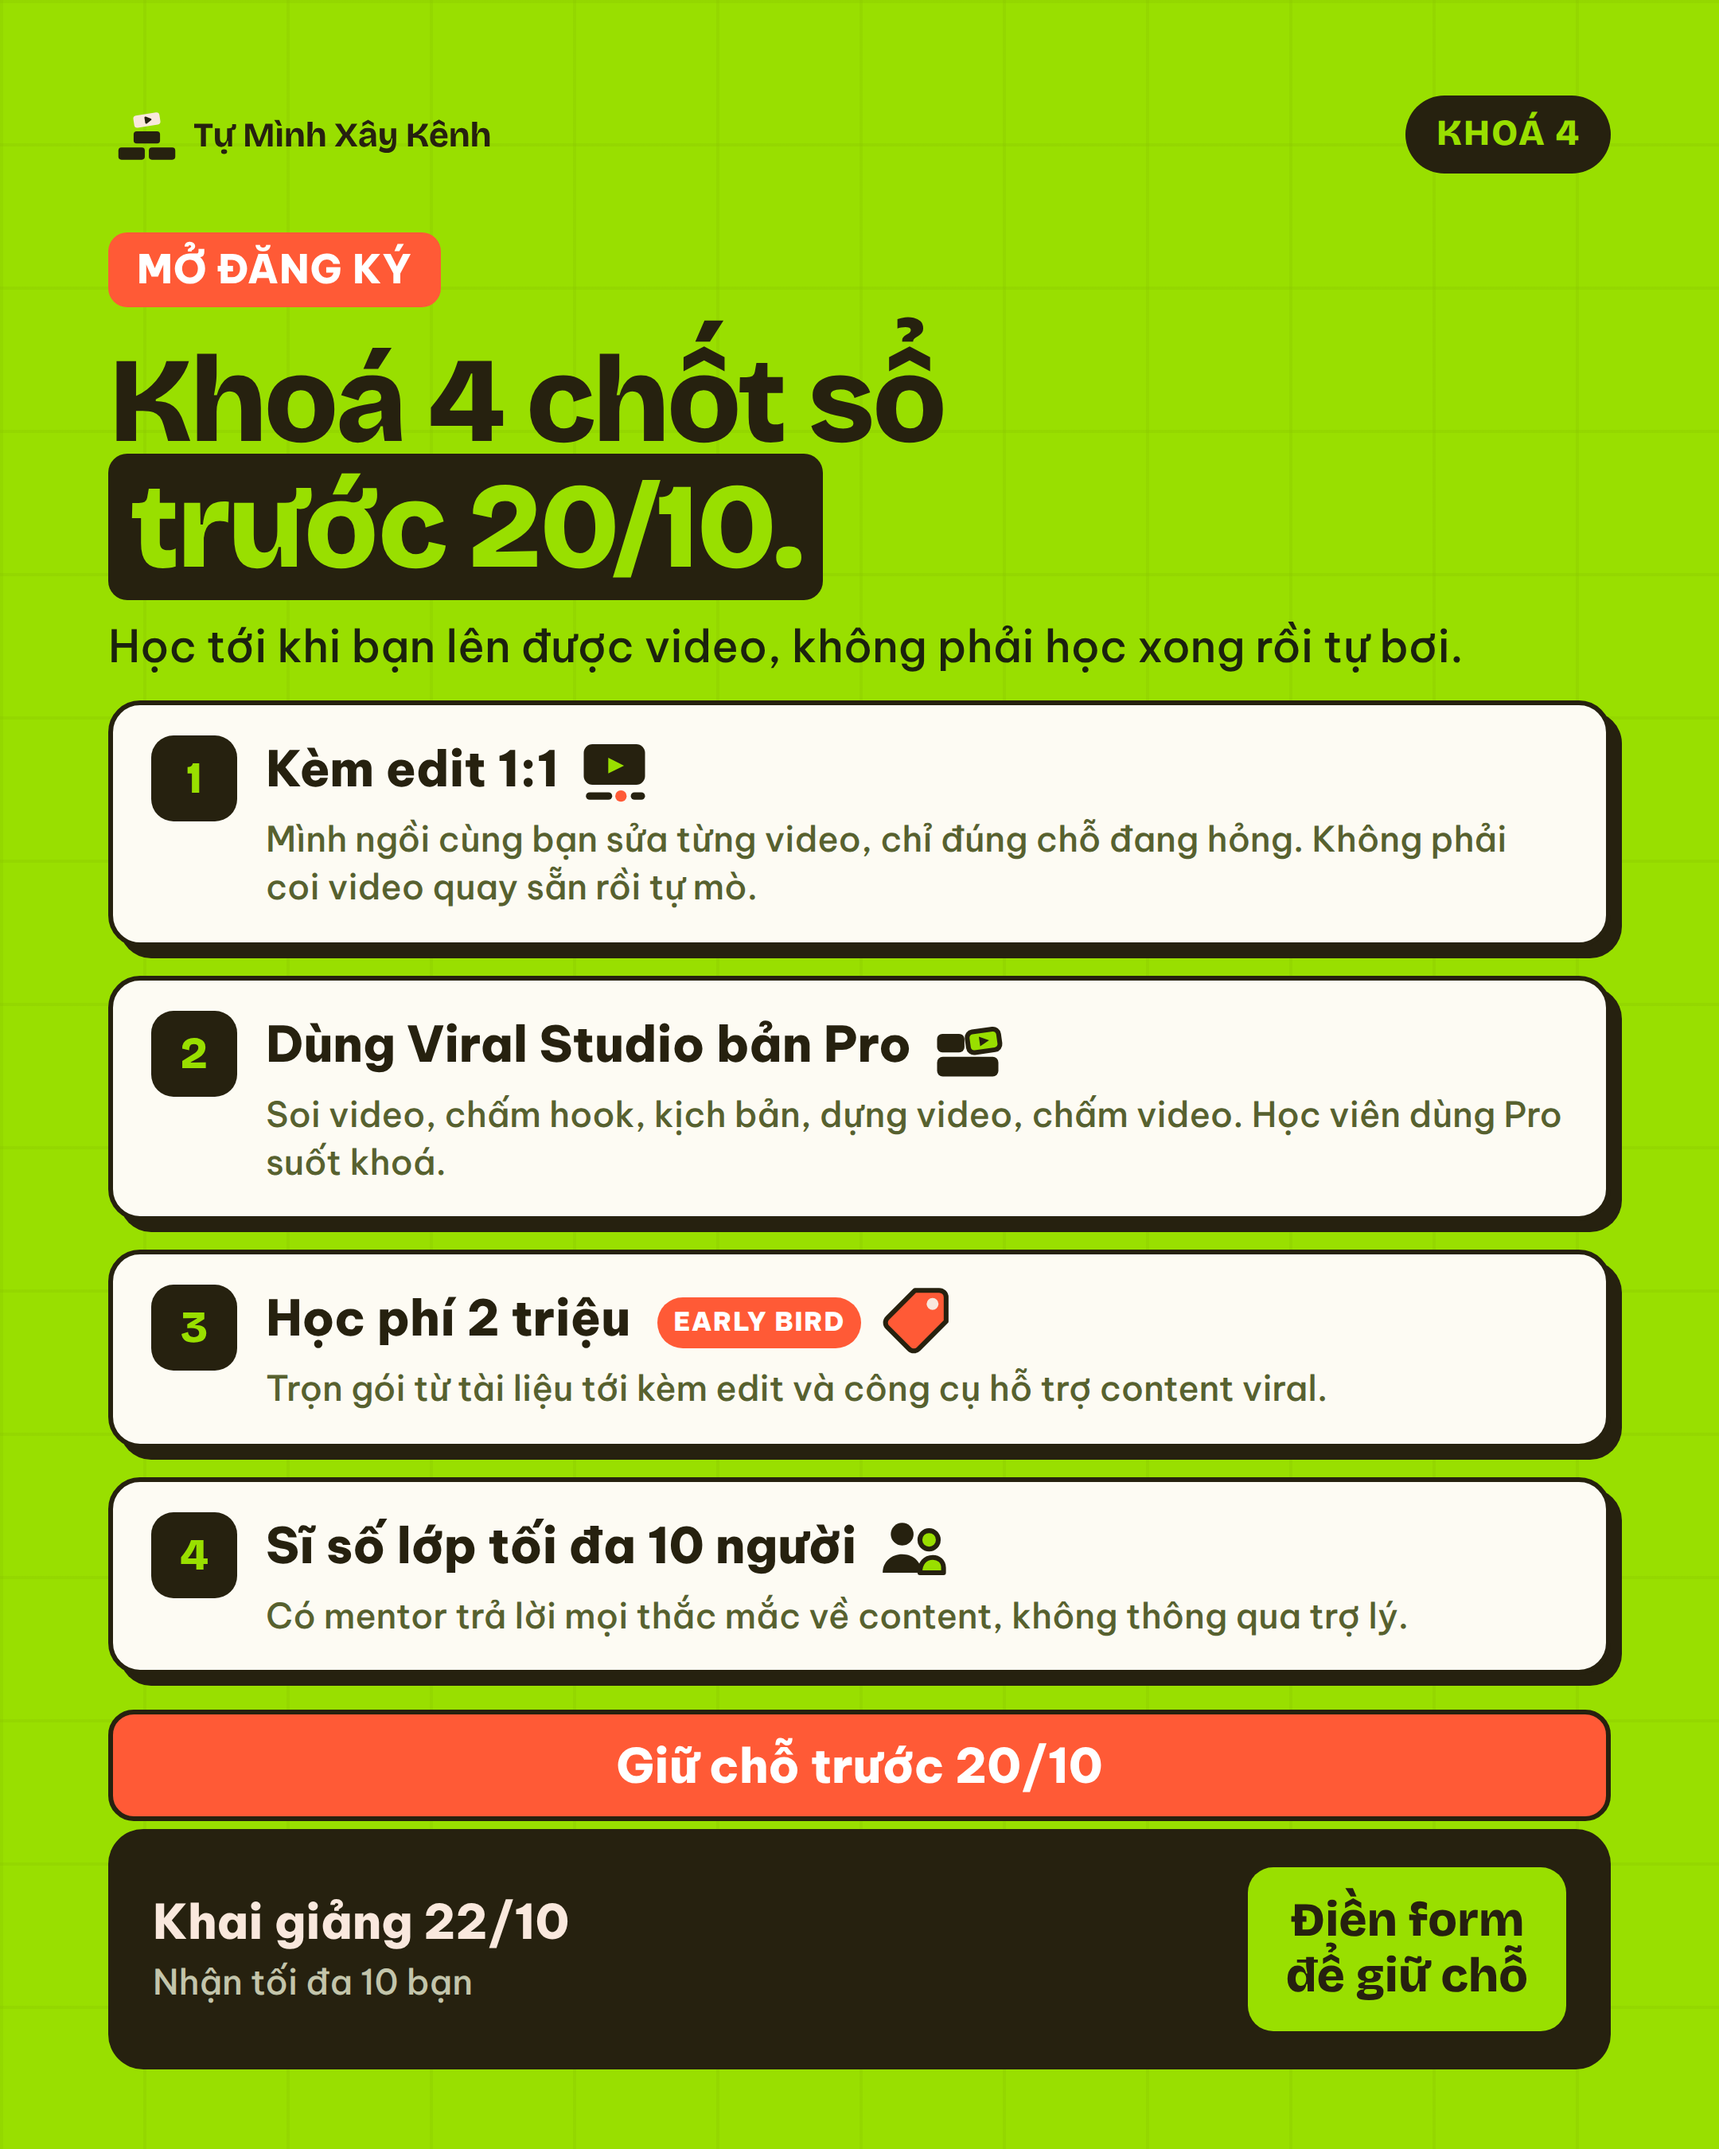
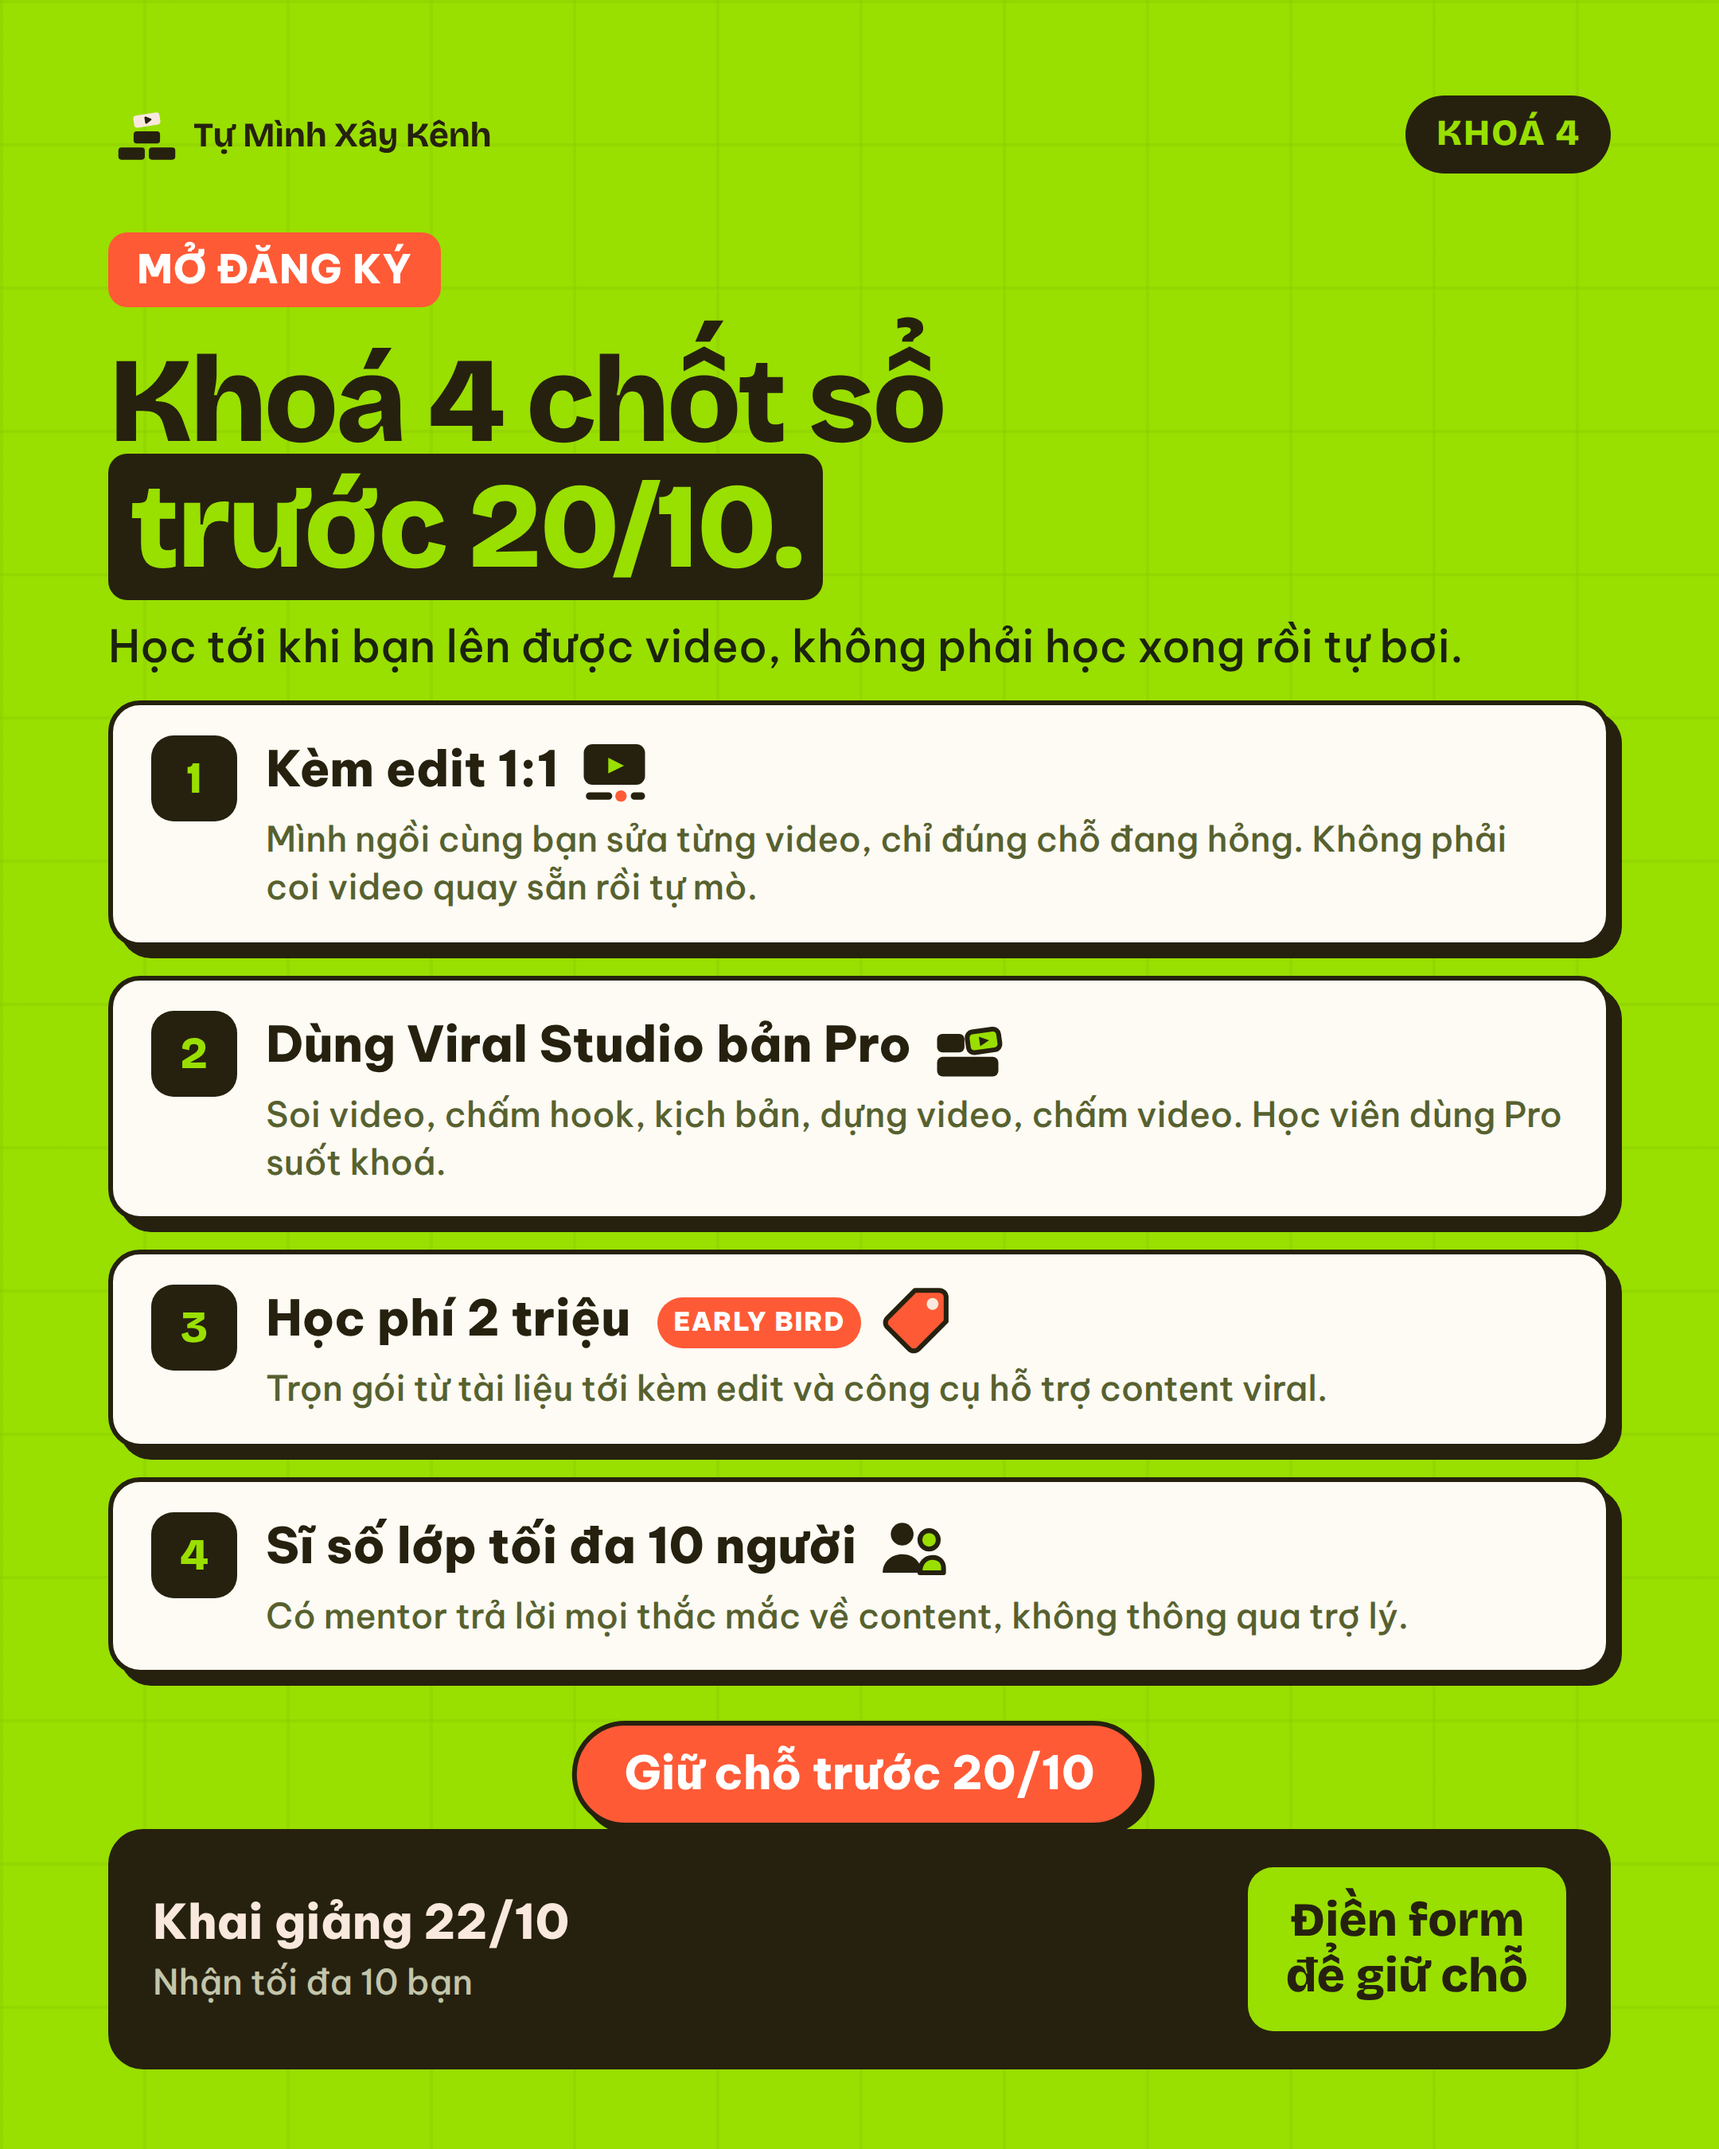
Poster khoá 4: dải hạn chót thu thành chip vừa chữ
Claude-Session: https://claude.ai/code/session_01DLoQkHnYKA1ATrTvxbMQPm

Changed region(s): [[0.062, 0.7778, 0.9616, 0.8711]]

diff --git a/poster-fb/poster.html b/poster-fb/poster.html
@@ -282,8 +282,9 @@
     padding:6px 10px;border-radius:999px;margin-left:10px;letter-spacing:.05em;vertical-align:3px}
   .k-list .m strong{display:block;font:800 31px/1.12 var(--font-ui)}
   .k-list .m span{display:block;font:500 22px/1.38 var(--font-ui);color:var(--muted);margin-top:6px}
-  .k-han{position:absolute;left:68px;right:68px;bottom:206px;text-align:center;background:var(--red);
-    border:3px solid var(--ink);border-radius:16px;padding:14px 20px;font:800 30px/1.2 var(--font-ui);color:#fff}
+  .k-han{position:absolute;left:50%;transform:translateX(-50%);bottom:202px;background:var(--red);
+    border:3px solid var(--ink);border-radius:999px;padding:13px 30px;white-space:nowrap;
+    font:800 29px/1.2 var(--font-ui);color:#fff;box-shadow:5px 5px 0 var(--ink)}
   .k-chan{position:absolute;left:68px;right:68px;bottom:50px;background:var(--ink);color:var(--paper);
     border-radius:22px;padding:24px 28px;display:flex;align-items:center;justify-content:space-between;gap:20px}
   .k-chan .ng{font:800 30px/1.25 var(--font-ui)}
